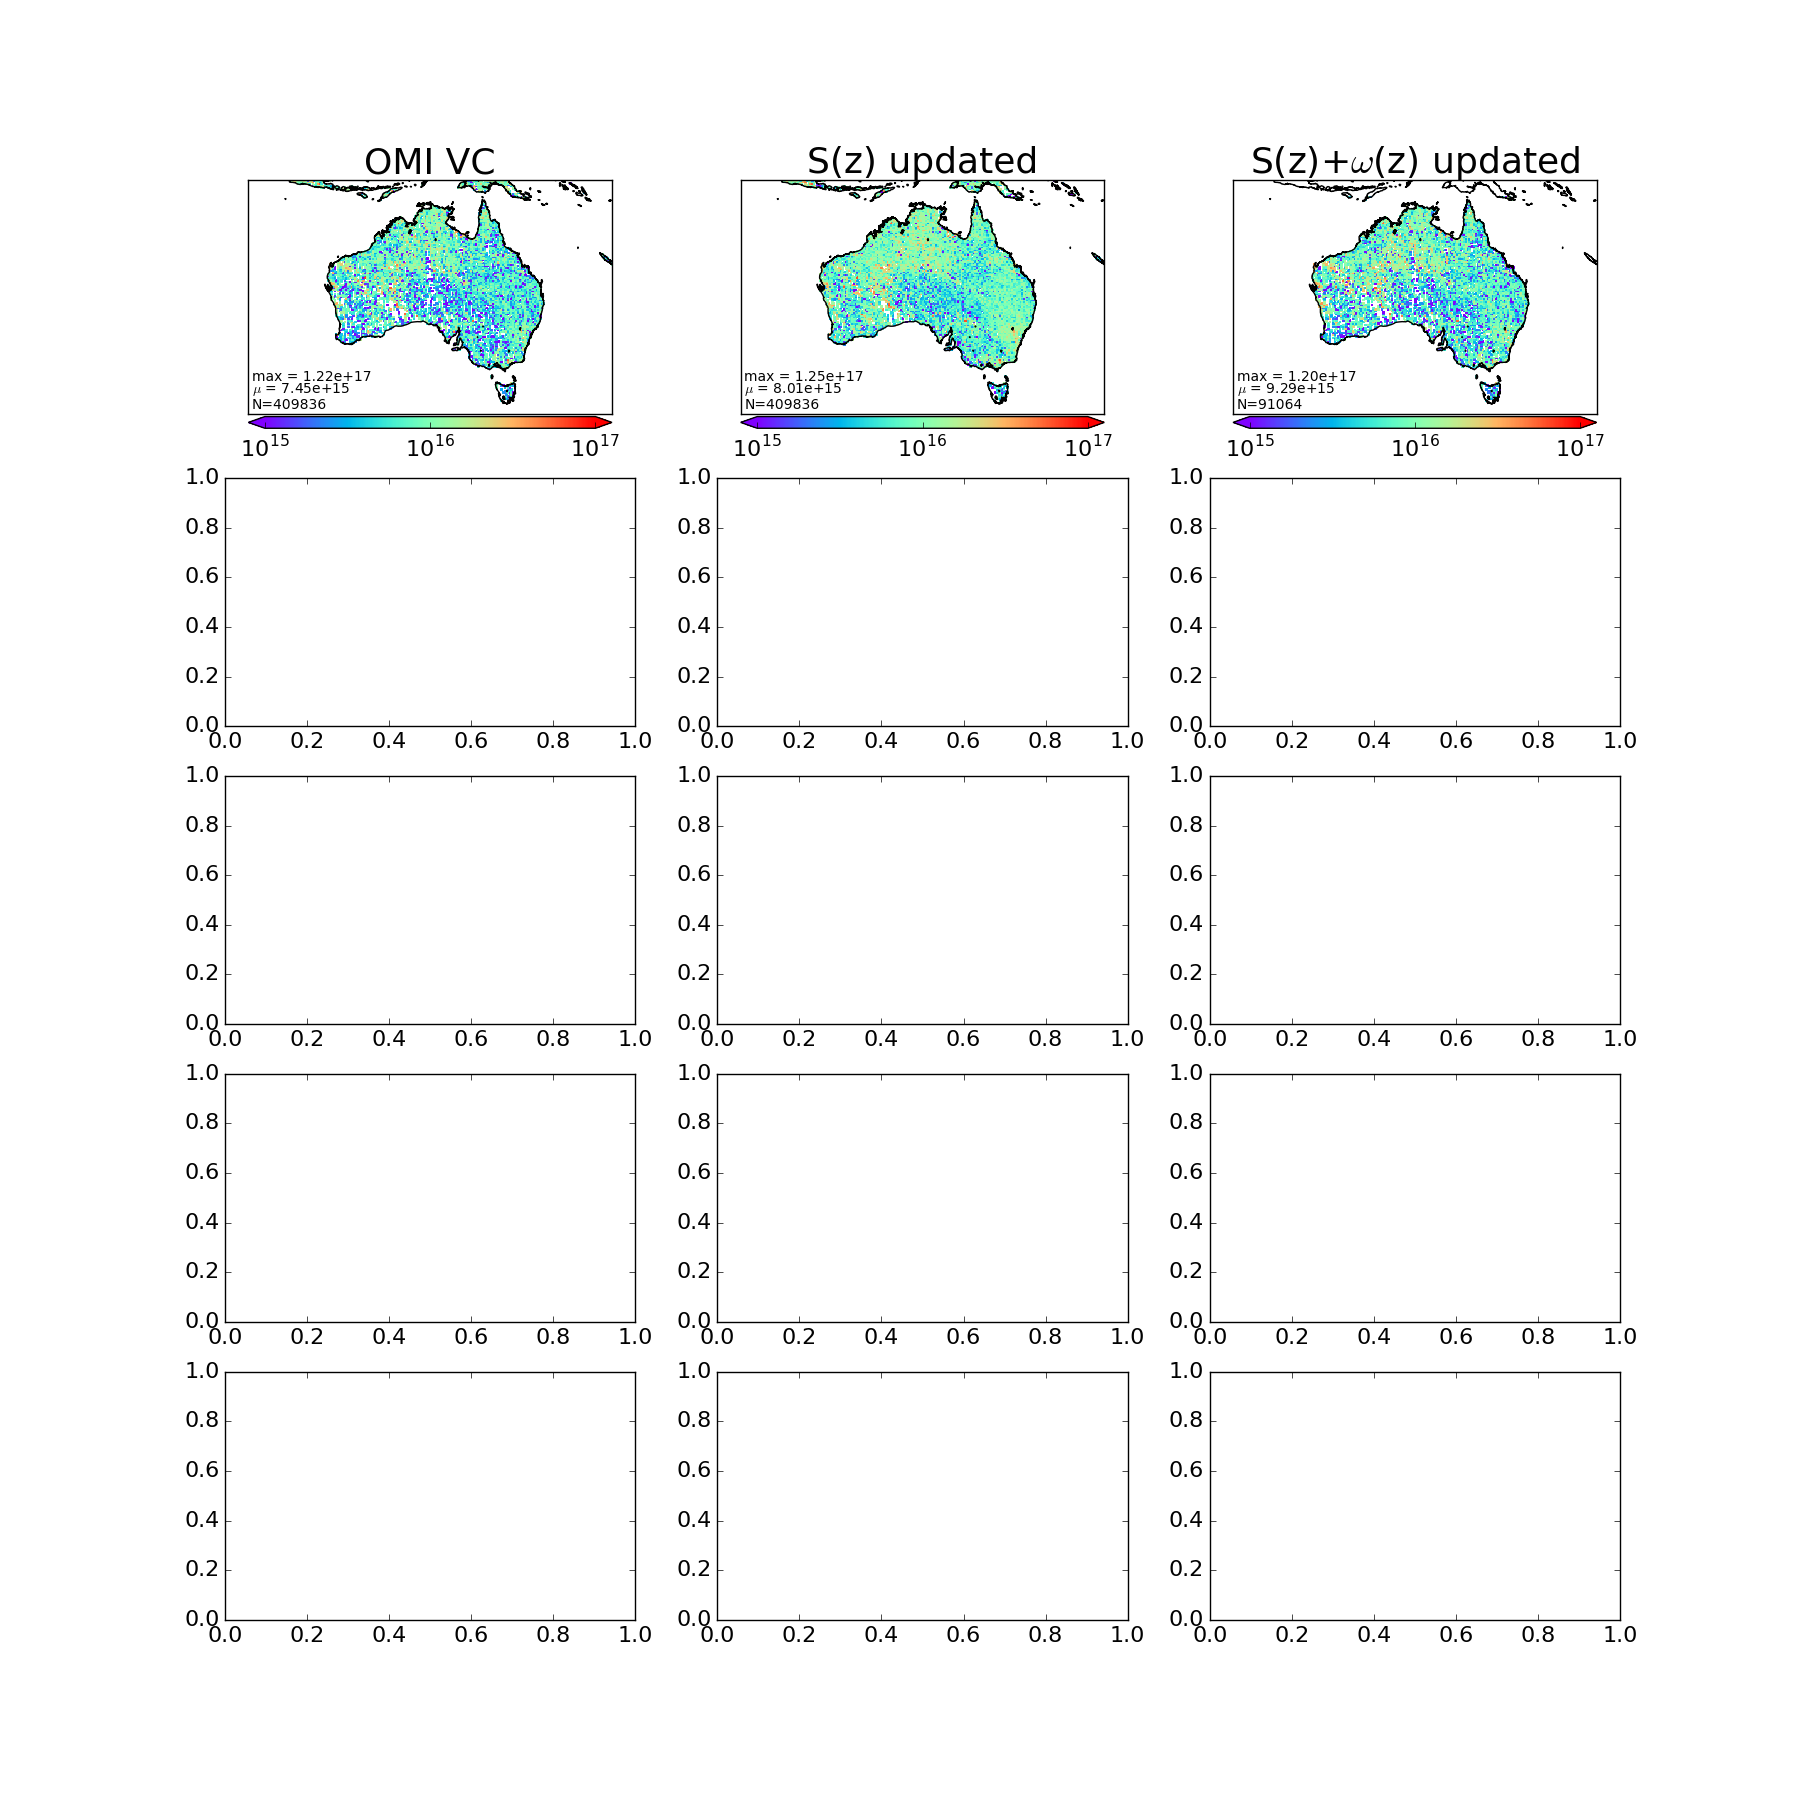
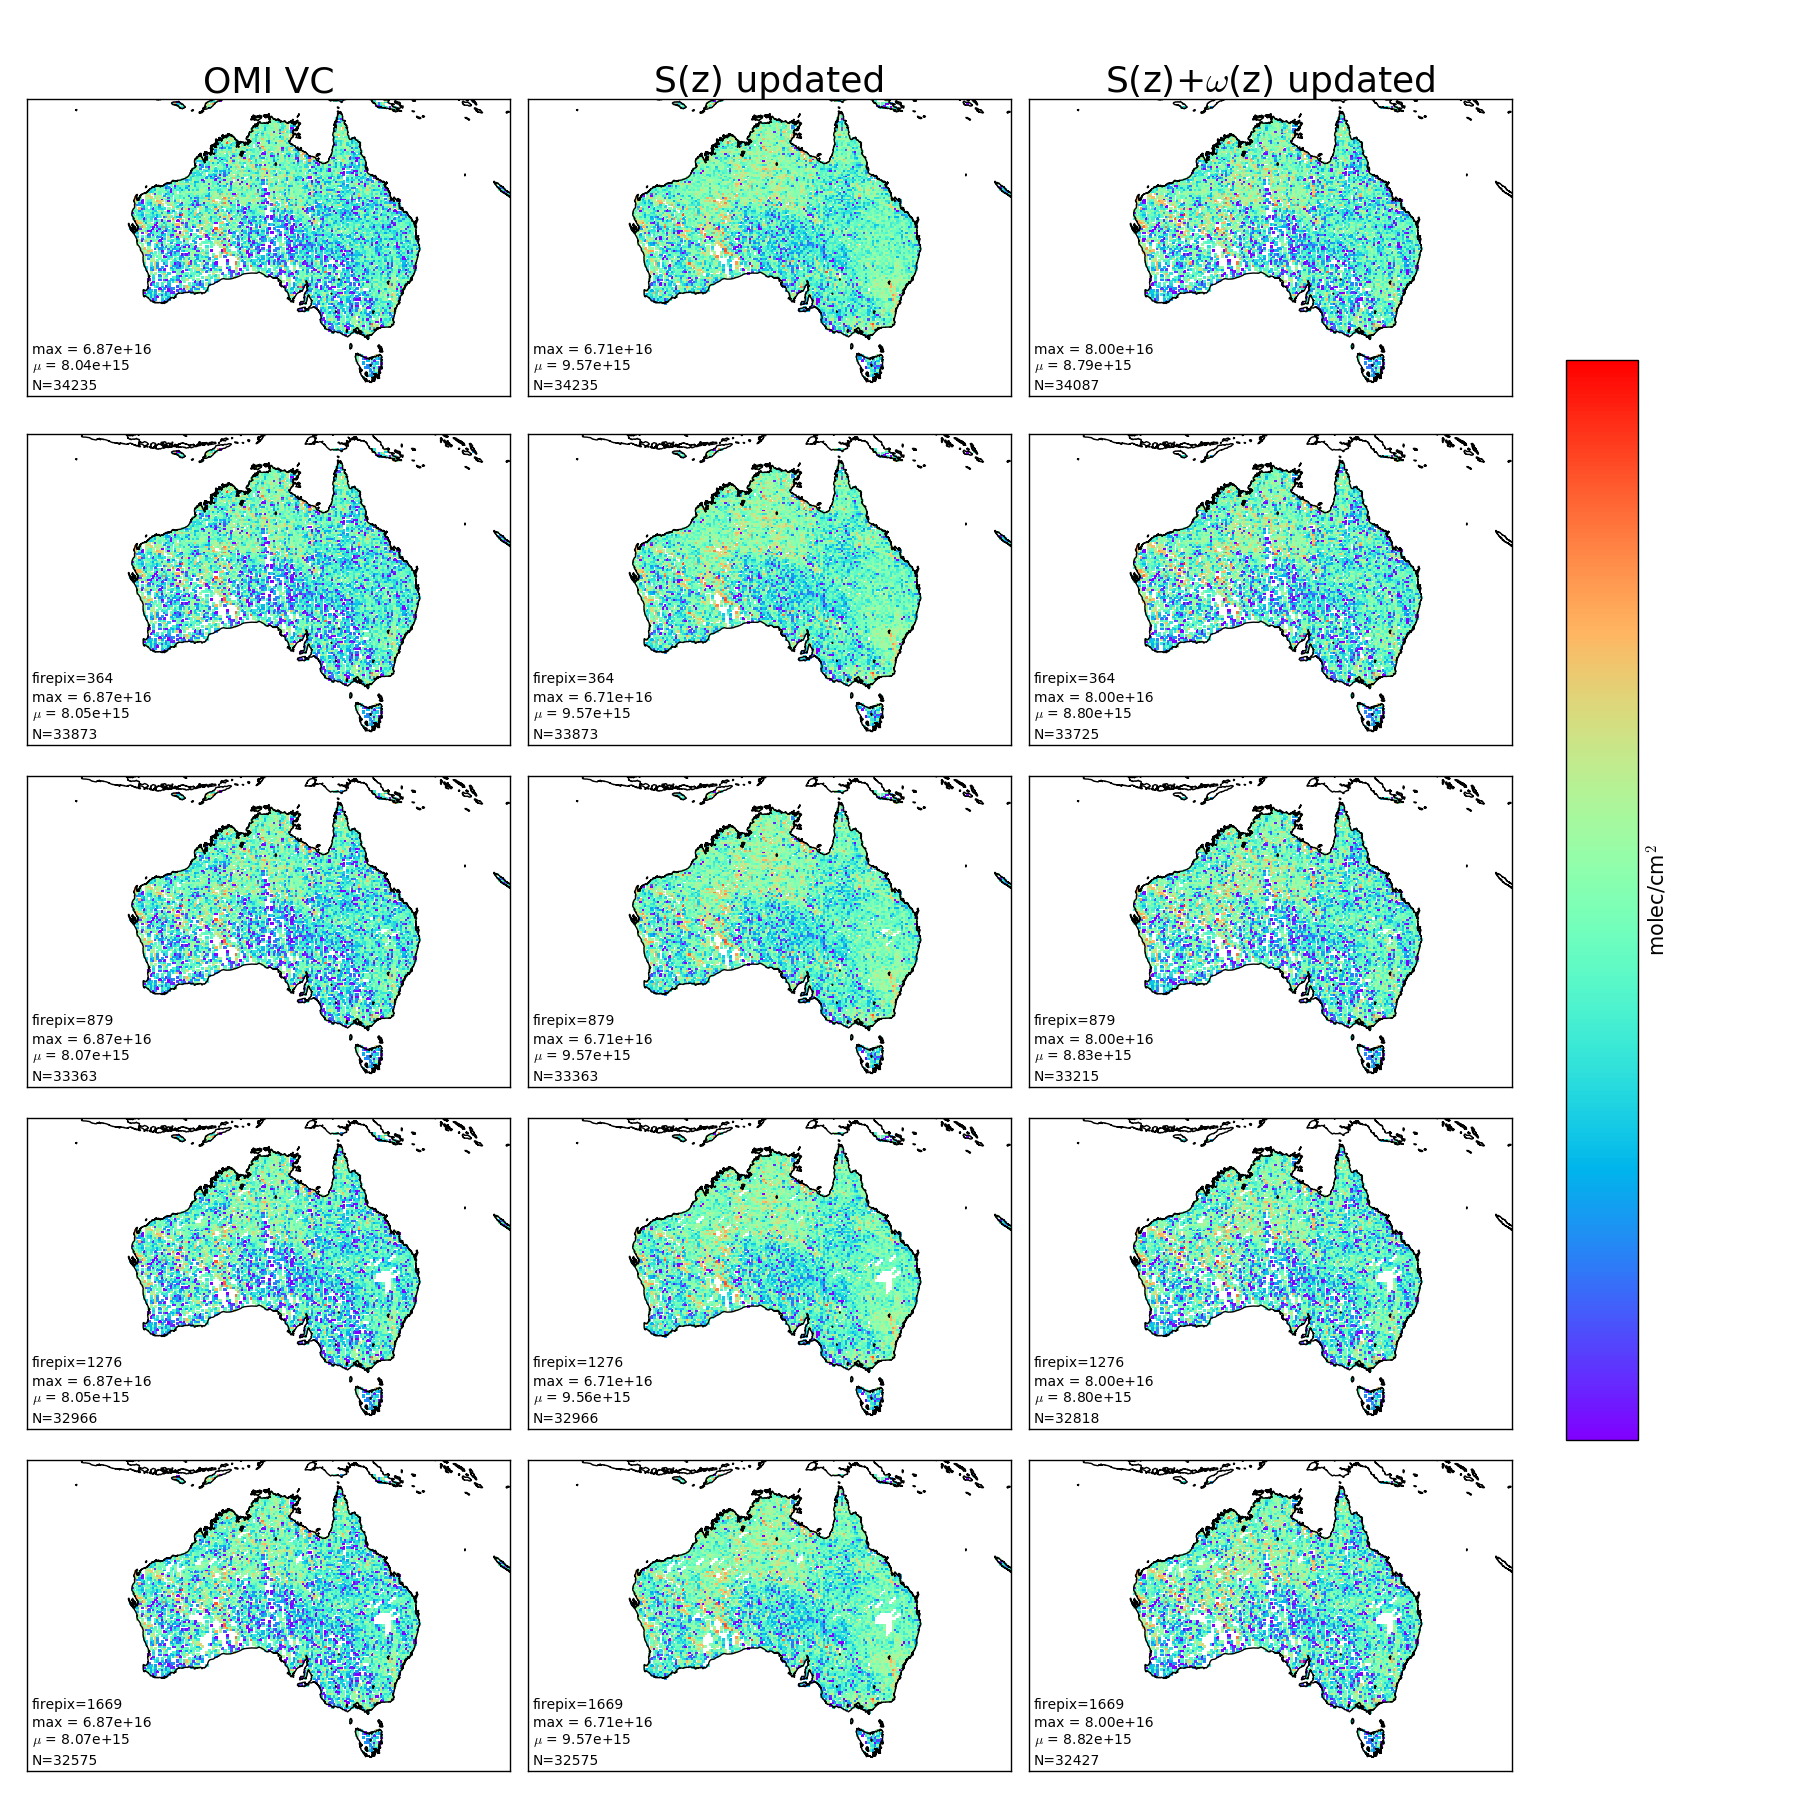
Updated fire filtering and plotting with analysis of entries

diff --git a/tests.py b/tests.py
@@ -580,6 +580,7 @@ def Summary_RSC(date=datetime(2005,1,1), oneday=True):
                 pass
 
     f.suptitle('Reference Sector Correction '+ymdstr,fontsize=30)
+    # Add colourbar to the right
     f.tight_layout()
     f.subplots_adjust(top=0.95)
     f.subplots_adjust(right=0.84)
@@ -880,7 +881,7 @@ def analyse_VCC_pp(day=datetime(2005,3,1), oneday=False, ausonly=True):
     print("%s saved"%pname)
     plt.close(f)
 
-def plot_VCC_rsc_gc_pp(d0=datetime(2005,3,1),dn=None):
+def plot_VCC_rsc_gc_pp(d0=datetime(2005,3,1),dn=None,region=[-45, 98.75, -9, 166.25]):
     '''
         Plot columns with different amf bases
         also different fire filtering strengths
@@ -895,43 +896,45 @@ def plot_VCC_rsc_gc_pp(d0=datetime(2005,3,1),dn=None):
     # start by reading all the VCC stuff
     # useful strings
     ymdstr=d0.strftime('%Y%m%d')
+    if dn is not None:
+        ymdstr=ymdstr+'-%s'%dn.strftime('%Y%m%d')
+    pname='Figs/VCC_fires_%s.png'%ymdstr
 
     # read in omhchorp
     om=omrp(d0,dayn=dn, keylist=['VCC','VC_GC','VCC_PP','gridentries','ppentries'])
-    print(vars(om).keys()) # [3, 720, 1152] data arrays returned, along with lats/lons etc.
+    #print(vars(om).keys()) # [3, 720, 1152] data arrays returned, along with lats/lons etc.
     oceanmask=om.oceanmask # lets just look at land squares
 
-    # read in fire mask for 0,1,2,4,8 days prior masking
-    # TODO
+    # Regionmask is the area which isnt within the region subset
+    regionmask=~om.inds_subset(lat0=region[0],lat1=region[2],lon0=region[1],lon1=region[3])
 
-    # Figure out how many pixels are removed with fire filtering
-
-
-    # and find land averages
-
-
-    # Plotting stuff:
+    # Plot rows,cols,size:
     f,axes=plt.subplots(5,3,figsize=[18,18])
 
     # first line is maps of VCC, VC_GC, VCC_PP
     titles=["OMI VC","S(z) updated","S(z)+$\omega$(z) updated"]
     vmin,vmax=1e15,1e17
     for i,arr in enumerate([om.VCC, om.VC_GC, om.VCC_PP]):
-        entries=[om.gridentries,om.ppentries][i==2] # entries for normal or ppamf
+        entries=np.copy([om.gridentries,om.ppentries][i==2]) # entries for normal or ppamf
+        entries=entries.astype(np.float)
+        print(entries.shape)
         if len(np.shape(arr))==3:
             arr=np.nanmean(arr,axis=0) # average over time
             entries=np.nansum(entries,axis=0) # how many entries
         arr[oceanmask]=np.NaN # nanify the ocean
-        entries[oceanmask]=0
+        arr[regionmask]=np.NaN # nanify outside the region
+        entries[oceanmask]=np.NaN
+        entries[regionmask]=np.NaN
 
         plt.sca(axes[0,i]) # first row ith column
-        pp.createmap(arr,om.lats,om.lons,region=[-45, 98.75, -7, 166.25],
-                     linear=False,vmin=vmin,vmax=vmax,
-                     cmapname='rainbow')
+        m,cs,cb= pp.createmap(arr,om.lats,om.lons,
+                              region=region,
+                              linear=False,vmin=vmin,vmax=vmax,
+                              cmapname='rainbow',colorbar=False)
         plt.title(titles[i])
 
         # add a little thing showing entries and mean and max
-        txt=['N=%d'%np.nansum(entries), '$\mu$ = %.2e'%np.nanmean(arr), 'max = %.2e'%np.nanmax(arr)]
+        txt=['N($\mu$)=%d(%.1f)'%(np.nansum(entries),np.nanmean(entries)), '$\mu$ = %.2e'%np.nanmean(arr), 'max = %.2e'%np.nanmax(arr)]
         for txt, yloc in zip(txt,[0.01,0.07,0.13]):
             plt.text(0.01, yloc, txt,
                  verticalalignment='bottom', horizontalalignment='left',
@@ -939,8 +942,55 @@ def plot_VCC_rsc_gc_pp(d0=datetime(2005,3,1),dn=None):
                  color='k', fontsize=10)
 
     # Now loop over the same plots after NaNing our different fire masks
+    for j, N in enumerate([1,2,4,8]):
 
-    pname='pp_test.png'
+        for i, arr in enumerate([om.VCC, om.VC_GC, om.VCC_PP]):
+            plt.sca(axes[j+1,i]) # jth row ith column
+
+            # pixelcounts for normal or ppamf
+            entries=np.copy([om.gridentries,om.ppentries][i==2]).astype(np.float)
+
+            # read in fire mask for 1,2,4,8 days prior masking
+            firemask=om.make_fire_mask(d0,dN=dn,days_prior=N)
+            # firemask is 3dimensional: [days,lats,lons]
+
+            # Nanify fire squares
+            arr[firemask]=np.NaN
+
+            # masking to our specific region:
+            if len(np.shape(arr))==3:
+                for k in range(np.shape(arr)[0]):
+                    entries[k][regionmask]=np.NaN
+
+            firepix=int(np.nansum(entries[firemask])) # how many fire pixels
+            entries[firemask]=0
+            # flatten arrays for plotting and entries
+            if len(np.shape(arr))==3:
+                arr=np.nanmean(arr,axis=0) # average over time
+                entries=np.nansum(entries,axis=0) # how many entries
+
+            # Nanify ocean squares and area outside region
+            arr[regionmask]=np.NaN
+            arr[oceanmask]=np.NaN
+            entries[oceanmask]=np.NaN
+
+            plt.sca(axes[j+1,i]) # first row ith column
+            pp.createmap(arr,om.lats,om.lons,region=[-45, 98.75, -7, 166.25],
+                         linear=False,vmin=vmin,vmax=vmax,
+                         cmapname='rainbow', colorbar=False)
+
+            # add a little thing showing entries and mean and max
+            txt=['N($\mu$)=%d(%.1f)'%(np.nansum(entries), np.nanmean(entries)), '$\mu$ = %.2e'%np.nanmean(arr),
+                 'max = %.2e'%np.nanmax(arr), 'firepix=%d'%firepix]
+            for txt, yloc in zip(txt,[0.01,0.07,0.13,0.19]):
+                plt.text(0.01, yloc, txt,
+                     verticalalignment='bottom', horizontalalignment='left',
+                     transform=plt.gca().transAxes,
+                     color='k', fontsize=10)
+
+
+    pp.add_colourbar(f,cs,ticks=np.logspace(np.log10(vmin),np.log10(vmax),5),label='molec/cm$^2$')
+
     plt.savefig(pname)
     plt.close(f)
     print("Saved ",pname)
@@ -1735,7 +1785,7 @@ if __name__ == '__main__':
     #check_HEMCO_restarts()
 
     #analyse_VCC_pp(oneday=False, ausonly=True)
-    plot_VCC_rsc_gc_pp(d0=datetime(2005,3,1),dn=datetime(2005,3,3))
+    plot_VCC_rsc_gc_pp(d0=datetime(2005,3,1),dn=datetime(2005,3,8))
     #plot_swaths()
     # AMF tests and correlations
     #Check_OMI_AMF()

diff --git a/classes/omhchorp.py b/classes/omhchorp.py
@@ -99,8 +99,8 @@ __OMHCHORP_ATTRS__ = {
     'AMF_GC':               {'desc':'AMF based on GC recalculation of shape factor'},
     'AMF_OMI':              {'desc':'AMF based on GC recalculation of shape factor'},
     'AMF_PP':               {'desc':'AMF based on PPalmer code using OMI and GEOS-Chem'},
-    'fire_mask_16':         {'desc':"1 if 1 or more fires in this or the 8 adjacent gridboxes over the current or prior 8 day block"},
-    'fire_mask_8':          {'desc':"1 if 1 or more fires in this or the 8 adjacent gridboxes over the current 8 day block"},
+    #'fire_mask_16':         {'desc':"1 if 1 or more fires in this or the 8 adjacent gridboxes over the current or prior 8 day block"},
+    #'fire_mask_8':          {'desc':"1 if 1 or more fires in this or the 8 adjacent gridboxes over the current 8 day block"},
     'fires':                {'desc':"8 day fire count from AQUA"},
     }
 
@@ -180,29 +180,69 @@ class omhchorp:
         #    self.background=self.get_background_array()
         #self.apply_fire_mask()
 
-    def apply_fire_mask(self, key='VCC', use_8day_mask=True):
-        ''' nanify arrays which are fire affected. '''
-        mask = [self.fire_mask_16, self.fire_mask_8][use_8day_mask]
-        print ("fire mask:",mask.shape,np.nansum(mask))
-        print(np.nansum(mask>0))
+    def make_fire_mask(self, d0, dN=None, days_prior=1, fire_thresh=1, adjacent=True):
+        '''
+            Return fire mask with dimensions [len(d0-dN), n_lats, n_lons]
+            looks at fires between [d0-days_prior+1, dN], for each day in d0 to dN
 
-        data=getattr(self,key)
+            If days_prior extends before contained days then the fire mask is read from omhchorp files
 
-        print(key, data.shape, ' before firemask:',np.nanmean(data))
+            mask is true where more than fire_thresh fire pixels exist.
 
-        #if len(data.shape) == 3:
-        #    for i in range(data.shape[0]): # loop over time dim
-        data[mask>0]=np.NaN
-        print('     after firemask:',np.nanmean(data))
+        '''
+        # first day of filtering
+        daylist=util.list_days(d0,dN)
+        first_day=daylist[0]-timedelta(days=days_prior-1)
+        last_day=daylist[-1]
 
-        #for arr in [self.AMF_GC,self.AMF_OMI,self.AMF_GCz,self.SC,self.VC_GC,
-        #            self.VC_OMI,self.VC_OMI_RSC,self.VCC,
-        #            self.col_uncertainty_OMI]:
-        #    arr[mask]=np.NaN
+        if __VERBOSE__:
+            print ("fire mask will be from ", first_day, '-', last_day)
+
+        # check if we already have the required days
+        dates=np.array(self.dates)
+        if (first_day >= dates[0]) and (last_day <= dates[-1]) and hasattr(self, 'fires'):
+            if __VERBOSE__:
+                print("fire mask will be made using already read data")
+            i = (dates <= last_day) * (dates >= first_day)
+            fires=self.fires[i,:,:]
+
+        else:
+            if __VERBOSE__:
+                print("fire mask will be read from omhchorp now...")
+            om=omhchorp(first_day,last_day,keylist=['fires'])
+            fires=om.fires
+
+        # mask squares with more fire pixels than allowed
+        mask = fires>fire_thresh
+        retmask= np.zeros([len(daylist),self.n_lats,self.n_lons]).astype(np.bool)
+
+        # actual mask is made up of sums of daily masks over prior days_prior
+
+        if days_prior>1:
+            # from end back to first day in daylist
+            for i in -np.arange(0,len(daylist)):
+                tempmask=mask[i-days_prior:] # look at last days_prior
+                if i < 0:
+                    tempmask=tempmask[:i] # remove days past the 'current'
+
+                # mask is made up from prior N days, working backwards
+                retmask[i-1]=np.sum(tempmask,axis=0)
+
+        else:
+            retmask = mask
+        assert retmask.shape[0]==len(daylist), 'return mask is wrong!'
+
+        # mask adjacent squares also (if desired)
+        if adjacent:
+            for i in range(len(daylist)):
+                retmask[i]=util.set_adjacent_to_true(retmask[i])
+
+        return retmask
 
     def inds_subset(self, lat0=None, lat1=None, lon0=None, lon1=None, maskocean=False, maskland=False):
         ''' return indices of lat, lon arrays within input box '''
-        inds=~np.isnan(self.AMF_OMI) # only want non nans
+        inds=np.ones([self.n_lats,self.n_lons]).astype(np.bool) # array of trues
+
         mlons,mlats=np.meshgrid(self.lons,self.lats)
         with np.errstate(invalid='ignore'): # ignore comparisons with NaNs
             if lat0 is not None:
@@ -435,7 +475,7 @@ class omhchorp:
         if day0 is None:
             day0=self.dates[0]
         if dayn is None:
-            dayn=day
+            dayn=day0
         data=self.time_averaged(day0,dayn,keys=[key,],)[key]
         lati,loni=util.lat_lon_range(self.lats,self.lons,region=region)
         data=data[lati,:]

diff --git a/utilities/plotting.py b/utilities/plotting.py
@@ -92,6 +92,18 @@ def regularbounds(x,fix=False):
 
     return newx
 
+def add_colourbar(f,cs,ticks=None,label=None,fontsize=15):
+    '''
+        Add a colour bar to a figure
+    '''
+    f.tight_layout()
+    f.subplots_adjust(top=0.95)
+    f.subplots_adjust(right=0.84)
+    cbar_ax = f.add_axes([0.87, 0.20, 0.04, 0.6])
+    cb=f.colorbar(cs,cax=cbar_ax)
+    cb.set_ticks(ticks)
+    cb.set_label(label,fontsize=fontsize)
+
 def add_rectangle(bmap, limits, color='k', linewidth=1):
     '''
     Plot rectangle on basemap(arg 0) using [lat0,lon0,lat1,lon1](arg 1)
@@ -219,10 +231,18 @@ def createmap(data, lats, lons, make_edges=False, GC_shift=True,
         print("createmap called over %s (S,W,N,E)"%str(region))
         #print("Data %s, %d lats and %d lons"%(str(data.shape),len(lats), len(lons)))
 
+    # First reduce data,lats,lons to the desired region (should save plotting time)
+    lati,loni=util.lat_lon_range(lats,lons,region)
+    data=data[lati,:]
+    data=data[:,loni]
+    lats=lats[lati]
+    lons=lons[loni]
+
+
     lllat=region[0]; urlat=region[2]; lllon=region[1]; urlon=region[3]
     m=Basemap(llcrnrlat=lllat, urcrnrlat=urlat, llcrnrlon=lllon, urcrnrlon=urlon,
               resolution='i', projection='merc')
-    
+
     if not linear:
         if __VERBOSE__:
             print('removing %d negative datapoints in createmap'%np.nansum(data<0))
@@ -232,7 +252,7 @@ def createmap(data, lats, lons, make_edges=False, GC_shift=True,
         vmin=1.05*np.nanmin(data)
     if vmax is None:
         vmax=0.95*np.nanmax(data)
-    
+
     ## basemap pcolormesh uses data edges
     ##
     lats_e,lons_e=lats,lons

diff --git a/reprocess.py b/reprocess.py
@@ -601,13 +601,7 @@ def get_8day_fires_mask(date=datetime(2005,1,1), latres=0.25, lonres=0.3125):
     1) read aqua 8 day fire count
     2) return a mask set to true where fire influence is expected
     '''
-    def set_adjacent_to_true(mask):
-        mask_copy = np.zeros(mask.shape).astype(bool)
-        ny,nx=mask.shape
-        for x in range(nx):
-            for y in np.arange(1,ny-1): # don't worry about top and bottom row
-                mask_copy[y,x] = np.sum(mask[[y-1,y,y+1],[x-1,x,(x+1)%nx]]) > 0
-        return mask_copy
+
 
     # read day fires
     fires, flats, flons = fio.read_8dayfire_interpolated(date,latres=latres,lonres=lonres)
@@ -616,7 +610,7 @@ def get_8day_fires_mask(date=datetime(2005,1,1), latres=0.25, lonres=0.3125):
 
     # create a mask in squares with fires or adjacent to fires
     mask = fires > 0
-    retmask = set_adjacent_to_true(mask)
+    retmask = util.set_adjacent_to_true(mask)
 
     return retmask
 

diff --git a/utilities/utilities.py b/utilities/utilities.py
@@ -438,6 +438,16 @@ def reshape_time_lat_lon_lev(data,ntimes,nlats,nlons,nlevs):
 
     return arr
 
+def set_adjacent_to_true(mask):
+    mask_copy = np.zeros(mask.shape).astype(bool)
+    ny,nx=mask.shape
+    for x in range(nx):
+        for y in np.arange(1,ny-1): # don't worry about top and bottom row
+            mask_copy[y,x] = np.sum(mask[[y-1,y,y+1],[x-1,x,(x+1)%nx]]) > 0
+        # top and bottom row doesn't work?
+        #mask_copy[0,x] = np.sum(mask[[0,1],[x-1,x,(x+1)%nx]]) > 0
+        #mask_copy[-1,x] = np.sum(mask[[-2,-1],[x-1,x,(x+1)%nx]]) > 0
+    return mask_copy
 
 def utc_to_local(utc_dt):
     '''
